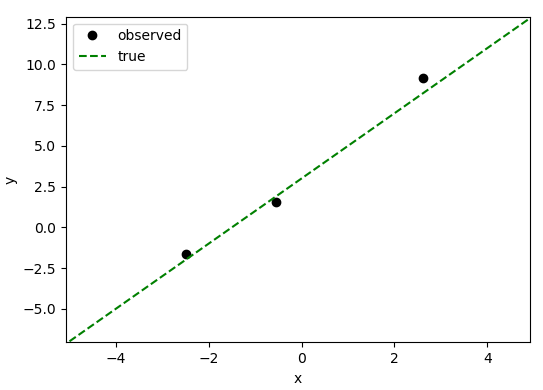
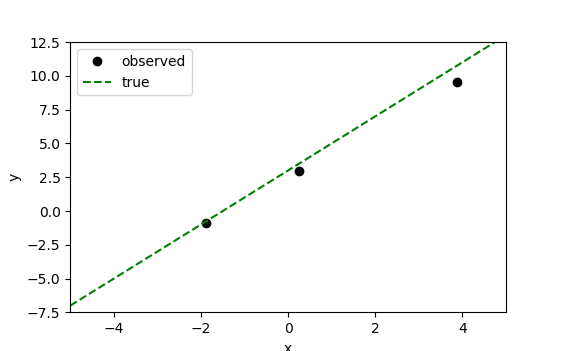
gif_for_Likelihood

diff --git a/likelihoodFunc/bayesianRegression.py b/likelihoodFunc/bayesianRegression.py
@@ -1,39 +1,78 @@
-# -*- coding: utf-8 -*-
-"""
-Created on Fri Mar  6 16:53:07 2020
+#-------------------------------------------------------------------------------
+# Name:        Toy Bayesian Inference for linear regression
 
-@author: wang0096
-"""
+##########
+# Main
+##########
+
+# Purpose:     
+#              1. for education and practice
+#              2. ...
+#              Main method is ...
+#
+# Modifications ~~:
+#              1.
+#
+# Author:      Jiong Wang
+#
+# Created:     10/03/2020
+# Copyright:   (c) JonWang 2020
+# Licence:     <your licence>
+#-------------------------------------------------------------------------------
 
 import numpy as np
+import pylab as pl
+import matplotlib.pyplot as plt
+
 from pylab import meshgrid,cm,imshow,contour,clabel,colorbar,axis,title,show
 from mpl_toolkits.mplot3d import Axes3D
 from matplotlib import cm
 from matplotlib.ticker import LinearLocator, FormatStrFormatter
-import matplotlib.pyplot as plt
 
-# Prior function
+# Prior function for a simple linear model with only a interception and a slope
 def pri(theta1,theta2):
-    func = (1/(np.sqrt(6.28)*3))*np.exp((theta1**2 + theta2**2)**2/(-2*3))
-    return func  #(1-(x**2+y**3))*exp(-(x**2+y**2)/2)
+    sigma = 3  # Standard deviation of the Gaussian prior
+    func = (1/np.sqrt(6.28*sigma**2))*np.exp((theta1**2 + theta2**2)**2/(-2*sigma**2))
+    return func
 
-# Likelihood function given one observation
-def likeli(theta1,theta2,obs_y,obs_x):
-    func = (1/np.sqrt(6.28))*np.exp((obs_y-theta1-theta2*obs_x)**2/(-2))
-    return func  #(1-(x**2+y**3))*exp(-(x**2+y**2)/2)
+# Likelihood function for one observation
+# For multiple observations only needs to multiply this function
+def likeli(theta1,theta2,obs_y,obs_x):  # It is a function of theta with known observations
+    sigma = 1  # Standard deviation of the Gaussian likelihood
+    func = (1/np.sqrt(6.28*sigma**2))*np.exp((obs_y-theta1-theta2*obs_x)**2/(-2*sigma**2))
+    return func
 
-# define theta space
-theta1 = np.arange(-5.0,5.1,0.1)
-theta2 = np.arange(-5.0,5.1,0.1)
-theta2 = theta2[::-1]  # minimum value from lowerleft corner
-T1,T2 = meshgrid(theta1, theta2) # grid of point
+# True linear function
+def linearF(x):
+    func = 3 + 2*x
+    return func
 
-# true linear function
-obs_x = np.random.rand(3)[:,None]; obs_x = obs_x*7-4  # draw 3 observations in [0,3]
-true_x = np.arange(-5.0,5.1,0.1)
-obs_y = 3 + 2*obs_x + np.random.randn(len(obs_x),1)*0.5
-true_y = 3 + 2*true_x
-obs = np.hstack((obs_x, obs_y))
+# Function for visualizing observations and likelihood
+def plotLikelihood(obs_x, obs_y, k, likelihood):
+    # Observations
+    plt.subplot(1,2,1)
+    plt.plot(obs_x,obs_y,'k.',obs_x[:k+1],obs_y[:k+1],'ro')
+    plt.plot(true_x,true_y,'g--')
+    plt.xlim([-5.,5.])
+    plt.ylim([-7.5,12.5])
+    plt.xlabel('x')
+    plt.ylabel('y')
+    # Likelihood
+    plt.subplot(1,2,2)
+    plt.imshow(likelihood,cmap='YlOrRd',extent=[-5,5,-5,5])
+    plt.xlabel('θ1')
+    plt.ylabel('θ2')
+
+    
+
+# Ground truth and noisy observations
+obs_x = np.random.rand(3)[:,None]; obs_x = obs_x*8-4  # Draw 3 noisy observations in [-4,4]
+obs_y = linearF(obs_x) + np.random.randn(len(obs_x),1)*1.0
+
+true_x = np.arange(-5.0,5.1,0.1)  # Ground truth data showing the linear function
+true_y = linearF(true_x)
+
+# Visualize ground truth data and noisy observation
 plt.plot(obs_x,obs_y,'ko',true_x,true_y,'g--')
 plt.legend(['observed','true'], loc=0)
 plt.xlim([-5.,5.])
@@ -41,24 +80,29 @@ plt.ylim([-7.5,12.5])
 plt.xlabel('x')
 plt.ylabel('y')
 
-# loop over number of observations
-posterior = 1
-for k in range(3):  #(len(obs)):
-    prior = pri(T1,T2) 
-    likelihood = likeli(T1, T2, obs[k,1], obs[k,0]) # evaluation of the function on the grid
-    posterior *= likelihood  #*prior
-    #plt.imshow(prior,cmap='coolwarm',extent=[-5,5,-5,5])
-plt.imshow(posterior,cmap='YlOrRd',extent=[-5,5,-5,5])
 
-# Plot 2D
-im = imshow(posterior,cmap='YlOrRd') # drawing the function
-# adding the Contour lines with labels
-#cset = contour(Z,np.arange(-1,1.5,0.2),linewidths=2,cmap=cm.Set2)
-#clabel(cset,inline=True,fmt='%1.1f',fontsize=10)
-colorbar(im) # adding the colobar on the right
-# latex fashion title
-#title('$z=(1-x^2+y^3) e^{-(x^2+y^2)/2}$')
-show()
+# Define theta space for visualizing likelihood and prior
+theta1 = np.arange(-5.0,5.1,0.1)
+theta2 = np.arange(-5.0,5.1,0.1)
+theta2 = theta2[::-1]  # minimum value from lowerleft corner
+T1,T2 = meshgrid(theta1, theta2) # grid of point
+
+# Loop over number of observations
+likelihood = 1
+for k in range(3):  #(len(obs_y)):
+    prior = pri(T1,T2) 
+    likelihood *= likeli(T1, T2, obs_y[k], obs_x[k]) # evaluation of the function on the grid
+    posterior = prior*likelihood
+
+
+# Visualization in 2D
+#im = imshow(posterior,cmap='YlOrRd') # drawing the function
+#colorbar(im) # adding the colobar on the right
+#show()
+plotLikelihood(obs_x, obs_y, k, likelihood)
+plt.imshow(prior,cmap='GnBu',extent=[-5,5,-5,5])
+plt.imshow(likelihood,cmap='YlOrRd',extent=[-5,5,-5,5])
+
 
 # Plot 3D
 fig = plt.figure()
